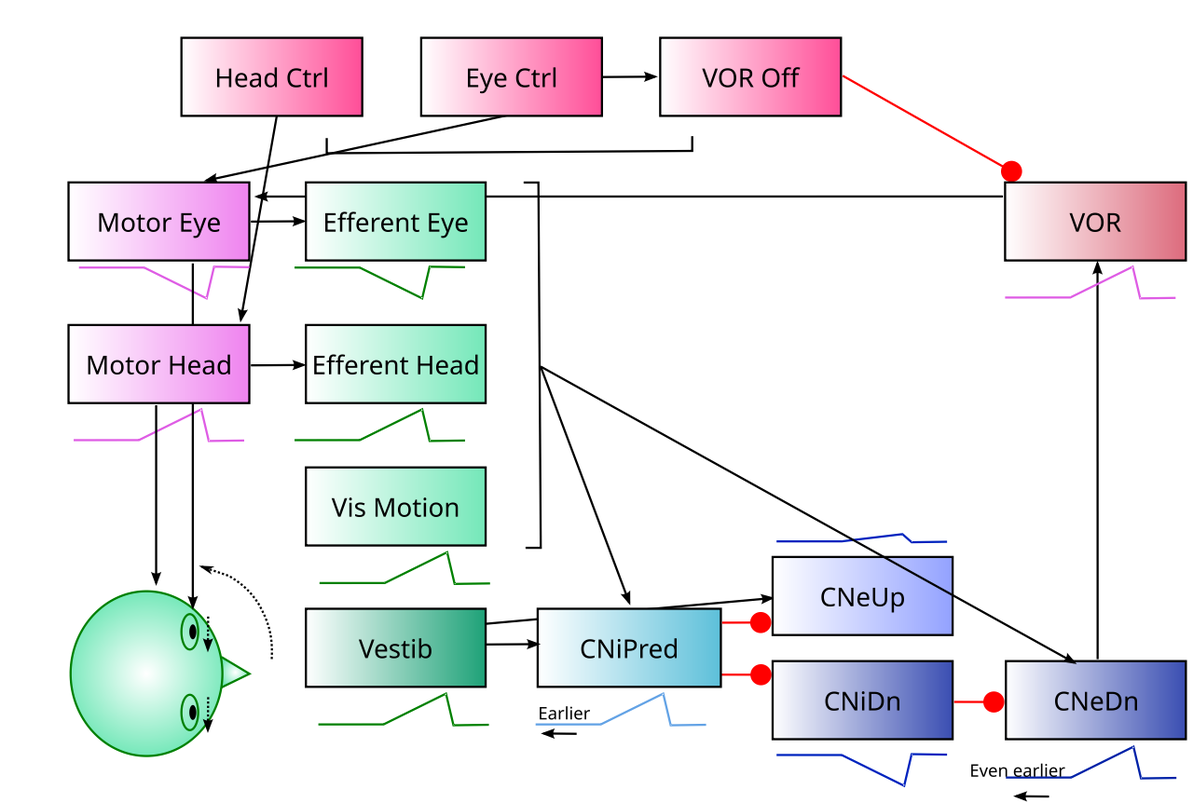
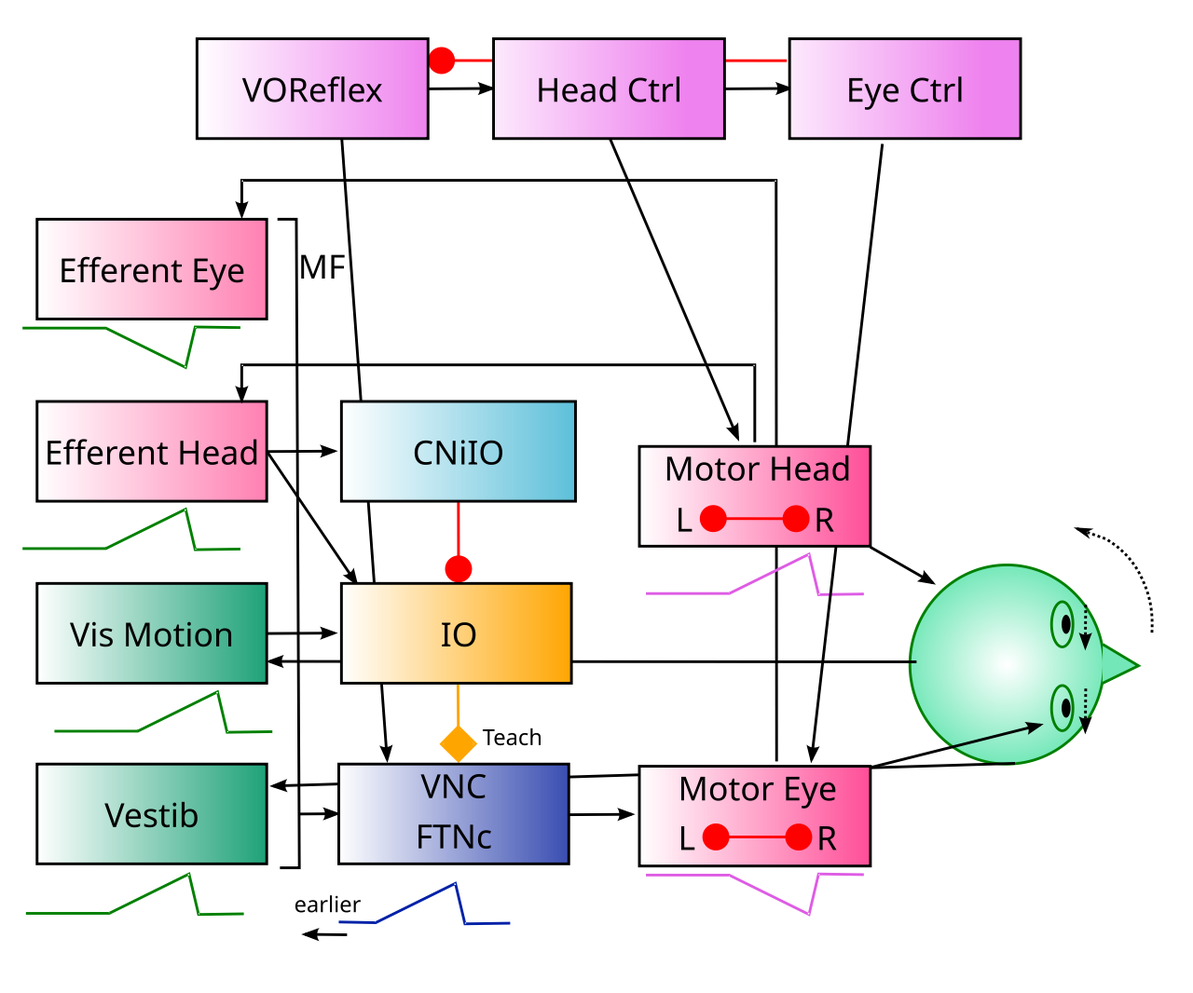
cerebellum updated figs, text, vor figs, vestibular

diff --git a/content/cerebellum.md b/content/cerebellum.md
@@ -61,7 +61,7 @@ There is one interesting and often neglected direct feedback projection within t
 
 The starting point for the model we adopt is that the cerebellum provides a stable, effective basis for motor control by learning to predict the sensory effects of motor actions, and to _subtract_ these predicted sensory signals from the ongoing stream of sensory inputs ([[@Fujita82a]]; [[@DeanPorrillEkerotEtAl10]]; [[@Cullen23]]). This _adaptive filtering_ function can be directly supported by the massive inhibitory projections from the Purkinje cells onto the cerebellar nuclei, which represent the sole output of the cerebellar cortex. The net effect is that any residual sensory signals that have not been canceled therefore represent something beyond the consequences of one's own actions, and are thus the relevant basis for driving further actions.
 
-The same type of predictive learning mechanism that supports the cancellation of sensory signals generated by one set of motor actions is also useful for driving subsequent motor actions based on the anticipated sensory outcomes of those initial actions. A classic example of this is the widely-studied vestibulo-ocular reflex (VOR) where the predicted vestibular signals generated by head movements can then drive corrective eye movements in the opposite direction, to maintain a stable visual stimulus on the retina ([[@ZeeuwHanselBianEtAl98]]; [[@KimpoRinaldiKimEtAl14]]). To effectively stabilize the retinal image, it is essential that the eye movements _anticipate_ the effects of the head movements, not just react to them after the fact. This function is consistent with the widely-discussed _forward model_ theory of cerebellar function ([[@MiallWolpert96]]; [[@Bastian06]]; [[@TanakaIshikawaLeeEtAl20]]). 
+The same type of predictive learning mechanism that supports the cancellation of sensory signals generated by one set of motor actions is also useful for driving subsequent motor actions based on the anticipated sensory outcomes of those initial actions. A classic example of this is the widely-studied [[#vestibulo-ocular reflex]] (VOR) where the predicted vestibular signals generated by head movements can then drive corrective eye movements in the opposite direction, to maintain a stable visual stimulus on the retina ([[@ZeeuwHanselBianEtAl98]]; [[@KimpoRinaldiKimEtAl14]]). To effectively stabilize the retinal image, it is essential that the eye movements _anticipate_ the effects of the head movements, not just react to them after the fact. This function is consistent with the widely-discussed _forward model_ theory of cerebellar function ([[@MiallWolpert96]]; [[@Bastian06]]; [[@TanakaIshikawaLeeEtAl20]]). 
 
 Many theorists have discussed these functions for the cerebellum over the years, but the precise neural mechanisms by which they are accomplished have remained somewhat underspecified in a few important respects. Furthermore, many other functional frameworks have been proposed that are either more generic (e.g., basic error-driven learning as in the Marr-Albus-Ito models, or feedforward motor control based on the widely-studied delayed eyeblink conditioning paradigm; [[@Thompson86]]; [[@RaymondLisbergerMauk96]]; [[@OhyamaMedinaNoresEtAl03]]; [[@NguyenPerson25]]) or more complex (e.g., [[@Kawato99]]; [[@Llinas09]]).
 
@@ -115,7 +115,7 @@ The distinction between a forward model and the adaptive filter is often not cle
 
 The adaptive filter requires increased inhibition in proportion to the predicted sensory signal to drive the cancellation, whereas the forward model signal should go in the opposite direction, to be proportional to the sensory prediction. Both should be driven by a predictive learning mechanism triggered by the efferent copy of a motor action, so that they are "about" the action, and not just always learning to cancel everything.
 
-One clear example of these two functions operating on the same vestibular signal is the adaptive filtering of head motion to subtract from the vestibular signal ([[@Cullen23]]), versus the vestibulo-ocular reflex (VOR) where eye movements are generated to correct for head motion, to keep a visual stimulus stable on the retina ([[@ZeeuwHanselBianEtAl98]]; [[@KimpoRinaldiKimEtAl14]]; see [[VOR simulation]]). The VOR requires ocular motor actions to be generated in anticipation of the effects of head motion actions, which requires the forward model predictions.
+One clear example of these two functions operating on the same vestibular signal is the adaptive filtering of head motion to subtract from the vestibular signal ([[@Cullen23]]), versus the [[#vestibulo-ocular reflex]] (VOR) where eye movements are generated to correct for head motion, to keep a visual stimulus stable on the retina ([[@ZeeuwHanselBianEtAl98]]; [[@KimpoRinaldiKimEtAl14]]; see [[VOR simulation]]). The VOR requires ocular motor actions to be generated in anticipation of the effects of head motion actions, which requires the forward model predictions.
 
 To be able to anticipate sensory signals and respond as quickly as possible, the cerebellar circuits all operate in parallel. Thus, the adaptive filtering and forward model functions, though logically related, operate via parallel loops. It would be too slow for the VOR ocular actions to be generated by sequentially feeding a signal from the adaptive filtering circuit back into another cerebellar circuit for the VOR.
 
@@ -128,10 +128,10 @@ Given the considerable evidence that cerebellar learning is consolidated into th
 ### Nuclear circuitry
 
 {id="figure_nuclear-forward" style="height:25em"}
-![Cerebellar components that implement the _Nuclear_ model of forward model functionality in _downbound_ (**Dn**) microzones. The target output for the **CNeDn** excitatory CN (_cerebellar nucleus_) output is to _anticipate_ the sensory consequences of motor actions for a given _Specific Sense_ input, as early as possible, as indicated by the temporal activity trace schematized under each neuron type. The _Motor Efferent_ copy signal provides the initial predictive trigger, so that the prediction is about a specific action. This trigger arrives before (e.g., 50-100 ms) the sensory effects it causes, so the **IO** (inferior olive) computes an offset comparison of later sensory inputs vs. the anticipatory **CNiIO** inhibitory IO prediction, with the motor trigger resetting IO dynamics. When excitatory sensory input arrives without a prior CNiIO inhibitory prediction, the IO fires a "learn now" teaching spike, to correct the error. IO spikes drive learning in the CNiIO neurons to modify inputs from **MF** (mossy fiber) time-varying state inputs, to improve the prediction. To generate positive, disinhibitory excitation in the CNeDn excitatory output, the tonically-active **CNiDn** local inhibitory interneurons must be inhibited directly by the CNiIO neurons, which predict at the earliest point in time as triggered by motor efferent inputs. CNeDn also contributes to the MF inputs for rapid sharing with other cerebellar pathways. The **PCDn** (_Purkinje cell_) neurons use high-dimensional, rapidly time-varying _granule cell_ (**GC**) representations of MF state to generate more precise, rapidly-adapting predictions to disinhibit the CNeDn anticipatory output, trained by IO climbing fiber complex spikes that result in LTD.](media/fig_cerebellum_as_forward_model.png)
+![Cerebellar components that implement the _Nuclear_ model of forward model functionality in _downbound_ (**Dn**) microzones. The target output for the **CNeDn** excitatory CN (_cerebellar nucleus_) output is to _anticipate_ the sensory consequences of motor actions for a given _Specific Sense_ input, as early as possible, as indicated by the temporal activity trace schematized under each neuron type. The _Motor Efferent_ copy signal provides the initial predictive trigger, so that the prediction is about a specific action. This trigger arrives before (e.g., 50-100 ms) the sensory effects it causes, so the **IO** (inferior olive) computes an offset comparison of later sensory inputs vs. the anticipatory **CNiIO** inhibitory IO prediction, with the motor trigger resetting IO dynamics. When excitatory sensory input arrives without a prior CNiIO inhibitory prediction, the IO fires a "learn now" teaching spike, to correct the error. IO spikes drive learning in the CNeDn neurons to modify inputs from **MF** (mossy fiber) time-varying state inputs, which can then drive earlier anticipatory firing of these CNeDn neurons. CNeDn also contributes back to the MF inputs for rapid sharing with other cerebellar pathways. The **PCDn** (_Purkinje cell_) neurons use high-dimensional, rapidly time-varying _granule cell_ (**GC**) representations of MF state to generate more precise, rapidly-adapting predictions to disinhibit the CNeDn anticipatory output, trained by IO climbing fiber complex spikes that result in LTD.](media/fig_cerebellum_as_forward_model.png)
 
 {id="figure_nuclear-adapt" style="height:25em"}
-![The _Nuclear_ model of adaptive filtering in the _upbound_ (**Up**) microzones. See prior figure for shared elements, with key differences noted here. The target output in the **CNeUp** excitatory CN output neurons is flat tonic activity, with deviations reflecting unexpected signals from the _Specific Sense_ input. Unlike the forward model case, the local inhibitory neurons (**CNiUp**) must learn to inhibit the CNeUP output at the time when subsequent sensory input actually arrives, which is generally delayed by up to 50-100ms from the motor efferent trigger and the anticipatory CNiIO activity. Therefore, the CNiUp neurons learn from the IO error signals to modify their MF inputs to cancel the predicted sensory input that is directly exciting CNeUp. The _mesodiencephalic junction_ (**MDJ**) nuclei receive excitation from CNeUp and project into the IO, so that IO error signals are also sensitive to this final output. The **PCUp** Purkinje cell neurons learn to increase firing (LTP) in response to IO climbing fiber complex spikes, to increase inhibitory cancellation of the CNeUp output.](media/fig_cerebellum_as_adaptive_filter.png)
+![The _Nuclear_ model of adaptive filtering in the _upbound_ (**Up**) microzones. See prior figure for shared elements, with key differences noted here. The target output in the **CNeUp** excitatory CN output neurons is flat tonic activity, with deviations reflecting unexpected signals from the _Specific Sense_ input. Unlike the forward model case, the local inhibitory neurons (**CNiUp**) must learn to inhibit the CNeUP output at the time when subsequent sensory input actually arrives, which is generally delayed by up to 50-100ms from the motor efferent trigger and the anticipatory CNiIO activity. Therefore, the CNiUp neurons learn from the IO error signals to modify their MF inputs to cancel the predicted sensory input that is directly exciting CNeUp. The **PCUp** Purkinje cell neurons learn to increase firing (LTP) in response to IO climbing fiber complex spikes, to increase inhibitory cancellation of the CNeUp output.](media/fig_cerebellum_as_adaptive_filter.png)
 
 [[#figure_nuclear-forward]] shows the key elements of the cerebellar circuitry that can implement the forward model process according to the _Nuclear_ model, while [[#figure_nuclear-adapt]] shows the adaptive filtering case. Even though each major element in this model has been documented and discussed in the literature, the specific details have not otherwise all been combined into one coherent framework. The points of comparison relative to [[#Standard models]] are discussed below, after providing an overview of the Nuclear framework.
 
@@ -213,7 +213,7 @@ Furthermore, the CN projections are generally more focal than those to the cereb
 
 These differences in sensory inputs make sense in terms of the sensory signals that are used to drive motor actions, which require upbound adaptive filtering so that the sensory signal properly compensates for other actions. These sensory inputs are largely visual and auditory localization inputs, which provide a distal guide to where you want to reach or navigate to. Indeed, a range of evidence shows that most motor areas in cortex use visually-grounded spatial reference frames for planning (e.g., [[@BatistaBuneoSnyderEtAl99]]). Because these sensory inputs (eyes and ears) are located on the head, they also require knowing about the orientation of the head, as provided by vestibular inputs.
 
-By contrast, somatosensory inputs provide feedback signals that result from motor actions, but do not represent the target or goal of actions. Therefore, they are important to anticipate for coordinating actions in the downbound forward model areas, but not for adaptive filtering. Th
+By contrast, somatosensory inputs provide feedback signals that result from motor actions, but do not represent the target or goal of actions. Therefore, they are important to anticipate for coordinating actions in the downbound forward model areas, but not for adaptive filtering.
 
 The connectivity with the mesodiencephalic system listed in [[#table_groups]] is based on the projections from the mesodiencephalic junction (MDJ) into the relevant areas of IO, which in turn are known to be associated with corresponding projections from CN output neurons into the same MDJ areas ([[@DeZeeuwSimpsonHoogenraadEtAl98]]; [[@WangNovelloGaoEtAl22]]; [[@DeZeeuwRuigrok94]]; [[@DeZeeuwSimpsonHoogenraadEtAl98]]; [[@RutherfordZuk-HarperGwyn89]]). However, this does _not_ mean that the MDJ areas also send specific sensory inputs into these CN areas. Instead, the CN areas receive from the other areas that the MDJ neurons also receive from, which are generally quite widespread ([[@KhalilMansvelderWitter22]]; [[@OnoderaHicks95]]).
 
@@ -257,13 +257,9 @@ Despite the limited data, there are multiple lines of evidence that IO activity 
 
 #### CNeDn forward model anticipatory firing
 
-To accomplish the _forward model_ functionality, where the sensory prediction itself is used as an excitatory output of the cerebellum, the inhibitory CNiIO signal must be inverted into a disinhibitory excitatory drive on the **CNeDn** CN excitatory output neurons, within the downbound microzones ([[#figure_nuclear-forward]]). This is accomplished by the **CNiDn** inhibitory interneurons, which have been described anatomically and electrophysiologically, but have not previously been associated with a specific function ([[@UusisaariKnopfel11]]; [[@UusisaariKnopfel12]]; [[@DeZeeuwBerrebi95]]; [[@Chan-Palay77]]; [[@KebschullCasoniConsalezEtAl24]]).
+To accomplish the _forward model_ functionality, where the sensory prediction itself is used as an excitatory output of the cerebellum on the **CNeDn** CN excitatory output neurons, within the downbound microzones ([[#figure_nuclear-forward]]). Because the CNeDn neurons do not need to precisely cancel the later-arriving specific sensory input, they can fire as early as possible, to give more time for subsequent motor actions to be shaped in anticipation of the predicted effects of earlier actions. This is the primary hypothesized computational benefit of the downbound forward-model pathway.
 
-Because the CNeDn neurons do not need to precisely cancel the later-arriving specific sensory input, they can fire as early as possible, to give more time for subsequent motor actions to be shaped in anticipation of the predicted effects of earlier actions. This is the primary hypothesized computational benefit of the downbound forward-model pathway.
-
-From a learning perspective, the CNiIO neurons are already learning to anticipate the sensory input signal, and they are under direct feedback control from the IO teaching signal that they directly influence. Therefore, it makes computational sense to restrict learning to these neurons, and just have simple fixed inhibitory projections from CNiIO to CNiDn to CNeDn, which invert this signal.
-
-Nevertheless, it is possible that IO inputs and / or the consequences of the PC complex spike inhibition onto the CNeDn neurons could drive plasticity directly in these neurons as well, consistent with extant theories ([[@PughRaman08]]; [[@YangLisberger14]]; [[@HerzfeldHallTringidesEtAl20]]).
+The IO climbing fibers project to the CN, and can drive learning from the MF inputs to the CNeDn neurons, producing the requisite excitatory activity, which can anticipate due to the synaptic integration process as discussed earlier ([[@RaymondLisberger98]]; [[@WangDenkHausser00]]). This is consistent with various theories ([[@PughRaman08]]; [[@YangLisberger14]]; [[@HerzfeldHallTringidesEtAl20]]).
 
 Interestingly, there are also some direct projections from CNiIO neurons into the pontine nuclei and midbrain / brainstem motor areas ([[@JuddLewisPerson21]]), which could thereby send inhibitory anticipatory signals, to complement the excitatory CNeDn ones.
 
@@ -271,7 +267,12 @@ Interestingly, there are also some direct projections from CNiIO neurons into th
 
 Although the initial evolutionary function of the cerebellum is thought to be adaptive filtering, it requires some additional mechanisms to deal with the temporal offset between the motor action and the subsequent sensory inputs (which was likely much shorter in simpler brains and smaller animals). As shown in [[#figure_nuclear-adapt]], the **CNiUp** inhibitory interneurons must learn a later sensory prediction that is precisely aligned with the incoming sensory signal, so that the **CNeUp** excitatory output neurons will only communicate unexpected sensory signals.
 
-Thus, the CNiUp local inhibitory neurons in the Nuclear model receive mossy fiber inputs and adapt these synapses using the IO teaching signal, to precisely cancel the specific sensory input via their direct inhibitory projections to the CNeUp output neurons. Interestingly, the excitatory projections from upbound CNe neurons to the MDJ (mesodiencephalic junction) neurons, which in turn project to the IO neurons that project into corresponding CN microzones ([[@DeZeeuwSimpsonHoogenraadEtAl98]]; [[@WangNovelloGaoEtAl22]]), provide a mechanism for direct error feedback learning based on the final CNeUp signal. Any residual perturbation in this signal can drive IO spiking, which should then drive further learning in the CNiUp neurons to better cancel the excitatory sensory inputs. This provides an important function for these otherwise rather mysterious MDJ areas.
+Thus, the CNiUp local inhibitory neurons in the Nuclear model receive mossy fiber inputs and adapt these synapses using the IO teaching signal, to precisely cancel the specific sensory input via their direct inhibitory projections to the CNeUp output neurons.
+
+{id="figure_adapt-mdj" style="height:25em"}
+![The _mesodiencephalic junction_ (**MDJ**) nuclei receive excitation from CNeUp and project into the IO, so that IO error signals are also sensitive to this final output.Compare this figure with the adaptive filtering figure shown earlier.](media/fig_cerebellum_as_adaptive_filter_mdj.png)
+
+Interestingly, the excitatory projections from upbound CNe neurons to the MDJ (mesodiencephalic junction) neurons, which in turn project to the IO neurons that project into corresponding CN microzones ([[#figure_adapt-mdj]]; [[@DeZeeuwSimpsonHoogenraadEtAl98]]; [[@WangNovelloGaoEtAl22]]), provide a mechanism for direct error feedback learning based on the final CNeUp signal. Any residual perturbation in this signal can drive IO spiking, which should then drive further learning in the CNiUp neurons to better cancel the excitatory sensory inputs. This provides an important function for these otherwise rather mysterious MDJ areas.
 
 #### Purkinje cells
 
@@ -329,7 +330,7 @@ There is a general consensus in the field that initial faster learning in the PC
 
 Perhaps the strongest-seeming data comes from [[@^GarciaSteeleMauk99]], who lesioned the cerebral cortex post-learning in an [[eyeblink simulation|conditioning]] paradigm, and found that this lesion prevented subsequent acquisition to a new CS. However, this is could actually have been due to a blocking effect from the prior CS-US conditioning, as was found by [[@^KimKrupaThompson98]].
 
-Another study by [[@^ZeeuwHanselBianEtAl98]] used a genetic knockout to disable a critical protein kinase involved in [[synaptic plasticity]], selectively in the PC neurons. Although they found that this blocked adaptation of the vestibulo-ocular reflex (VOR) in both the PCs and the CN, they only used a short amount of training (1 hr) which was shown in another study to only affect learning in the cerebral cortex ([[@KassardjianTanChungEtAl05]]).
+Another study by [[@^ZeeuwHanselBianEtAl98]] used a genetic knockout to disable a critical protein kinase involved in [[synaptic plasticity]], selectively in the PC neurons. Although they found that this blocked adaptation of the [[#vestibulo-ocular reflex]] (VOR) in both the PCs and the CN, they only used a short amount of training (1 hr) which was shown in another study to only affect learning in the cerebral cortex ([[@KassardjianTanChungEtAl05]]).
 
 Consistent with the fast vs. slow dissociation, [[@^KassardjianTanChungEtAl05]] only found cortically-independent learning in the CN after 3 days of training. Furthermore, [[@^ZeeuwHanselBianEtAl98]] noted that the standard VOR, and considerable motor behavior, was intact in their knockout mice, providing strong evidence that plasticity in the PC is _not_ important for the slow learning over developmental time in the CN.
 
@@ -394,7 +395,7 @@ $$
 
 where $\lambda_e$ is the learning rate for error trials, and $\lambda_b$ is the decay learning rate. Note that the decay learning operates on whatever inputs are active at the time of the baseline 1 hz spike that triggers decay learning, instead of generically decaying everything. For the PCDn learning, the signs are reversed.
 
-In support of the asymmetrical directionality of this learning rule, there are well-documented cases across multiple paradigms that show strong such asymmetries. For example, in a very thorough study of the VOR (vestibulo-ocular reflex) paradigm, only increases in VOR gain exhibited rapid trial-by-trial adjustments, that were consistent with LTD of the PC climbing fiber synapses ([[@KimpoRinaldiKimEtAl14]]). Nevertheless long-term changes in behavior and PC firing were appropriately bidirectional, suggesting that the asymmetry was restricted to rapid, transient changes. There may be general functional benefits to this asymmetry that can be investigated with computational models.
+In support of the asymmetrical directionality of this learning rule, there are well-documented cases across multiple paradigms that show strong such asymmetries. For example, in a very thorough study of the VOR ([[#vestibulo-ocular reflex]]) paradigm, only increases in VOR gain exhibited rapid trial-by-trial adjustments, that were consistent with LTD of the PC climbing fiber synapses ([[@KimpoRinaldiKimEtAl14]]). Nevertheless long-term changes in behavior and PC firing were appropriately bidirectional, suggesting that the asymmetry was restricted to rapid, transient changes. There may be general functional benefits to this asymmetry that can be investigated with computational models.
 
 A directional saccade task also showed the same kind of asymmetry in rapid learning, which was also dissociated from the bidirectional plasticity in longer-term learning ([[@YangLisberger14a]]). The widely-studied eyeblink conditioning task has shown more ambiguous results on the directionality of learning ([[@McCormickThompson84a]]; [[@BerthierMoore86]]; [[@JirenhedBengtssonHesslow07]]; [[@GreenSteinmetz05]]), perhaps consistent with a mix of both forward model and adaptive filter modes of learning.
 
@@ -452,3 +453,40 @@ Furthermore, the [[Rubicon]] goal-driven control framework provides a critical o
 <!--- TODO: * show data from [[@TanakaIshikawaKakei19]], [[@IshikawaTomatsuIzawaEtAl16]], 2014, [[@ZobeiriCullen24]] on actual firing data in CN, PC neurons etc. DC neurons do not go silent!  every neuron learns what the firing of every other neuron means, so the cancelation is all relative. Weird result from [[@ZobeiriCullen24]] along these lines.
 -->
 
+## Vestibulo-ocular reflex
+
+{id="figure_vor-anatomy" style="height:30em"}
+![Anatomy of the VOR reflex, which is driven by vestibular signals from the semicircular canals, which project into the vestibular nucleus, and from there into optical motor areas. All primary inputs are _ipsilateral_ (e.g., the right ear projects to the right hemisphere), and the VOR involves the subset of VNC (vestibular nuclear complex) neurons that project _contralaterally_ to drive the _nucleus abducens_ optical motor interneurons that cause eye movents in the compensatory, opposite direction.](media/fig_cerebellum_vor_anatomy.png)
+
+{id="figure_vor" style="height:30em"}
+![Central elements of the VOR network. The violet colored boxes at the top reflect brainstem control areas where descending cortical and basal ganglia motor inputs drive coordinated motor behavior. The `Head Ctrl` area drives neck rotation, but also by default provides inputs into the `VOReflex` motor reflex area that then drives compensatory eye movements, by default, in proportion to the neck rotation signals. The `Eye Ctrl` area supports direct saccadic control over eye position, which automatically suppresses the VOR, via the `VOR Off` area which inhibits the VOReflex. The cerebellum learns a `VOR Mod` modulatory signal via the `CNeDn` downgoing forward model pathway, which controls the gain of the `VOReflex`](media/fig_cerebellum_vor.png)
+
+The vestibulo-ocular reflex (VOR) is a thoroughly studied aspect of cerebellar function (see [[@Cullen23]; [[@KheradmandZee11]] for reviews, and [[@ZeeuwHanselBianEtAl98]]; [[@KimpoRinaldiKimEtAl14]] for important results). The VOR is directly mediated by brainstem circuits outside of the cerebellum, but the ability to tune the VOR in response to perturbations in the visual input (e.g., by wearing glasses) is critically dependent on the cerebellum. Thus, consistent with the known properties of cerebellar output pathway neurons, they serve to _modulate_ or _tune_ the activity of other sensory-motor circuits.
+
+This contribution of the cerebellum is summarized by its contributions to the _VOR gain_ factor: the ratio of head motion to compensatory eye motion in the opposite direction. For the normal, baseline case, this gain factor is 1. But experimental manipulations including changing the magnification in the eyes or stimulating the vestibular nerves causes the gain to change, in a cerebellum-dependent manner.
+
+[[@InagakiHirata17]] provide a detailed computational model.
+
+Some of the relevant phenomena that a biologically-based model should account for includes:
+
+* The asymmetry in VOR gain increases vs. decreases, in terms of rate of learning and duration of retention ([[@BoydenKatohRaymond04]]; [[@KukiHirataBlazquezEtAl04]]; [[@KimpoRinaldiKimEtAl14]]). We can understand these differences in terms of the rapid contribution of cerebellar LTD learning for gain increases, which decays relatively rapidly, versus slower, longer-lasting changes in the cerebellar nuclei, and even a consolidation process out in the brainstem circuits directly, eventually ([[@LisbergerPavelkoBroussard94]])
+
+* [[@BlazquezHirataHeineyEtAl03]] document a number of different changes in the responses of Purkinje cells to various input parameters, which together can account for the VOR gain changes. [[@HirataHighstein01]].
+
+### Existing computational models
+
+#### Lisberger 1994
+
+{id="figure_vor_ftn" style="height:40em"}
+![Results from Lisberger et al (1994) on the modulation of FTN (floccular target neurons in the vestibular nucleus) ](media/fig_cerebellum_vor_lisberger_etal_94_ftn_fig12.png)
+
+One of the earliest models, features the **HGVP** (horizontal gaze-velocity Purkinje) cells, which project inhibition onto the **FTN** (flocculus target neurons, in the vestibular nucleus), that then project to the ocular motor system, and are the functional equivalent of cerebellar nucleus neurons for the vestibular system. These neurons have a high tonic level of activity, are excitatory ([[@MatsunoKudohWatakabeEtAl16]]) and have two different subtypes respond in opposite directions: E_i = ipsilateral, E_c = contralateral eye movement-related activity ([[@LisbergerPavelkoBroussard94]]).
+
+Under normal conditions, the ipsilateral neurons increase firing in response to head movements in the ipsilateral direction, while the contralateral ones exhibit the opposite pattern, providing a classic opponent-organized system. With VOR training, increases in VOR gain were associated mostly with large decreases in velocity sensitivity for the E_c opponent, and smaller increases in sensitivity for the E_i ipsilateral direction (i.e., reducing the inhibition a lot and increasing the excitation a bit). By contrast, reductions in VOR gain were associated with increases in E_c opponent activity _and_ E_i activity.
+
+* E_i -> Ipsi = head rotating ipsi, *eye* rotating contra!!
+* E_c -> contra = head rotating contra, *eye* rotating ipsi
+
+GAIN = balance between these two! not either one alone. More gain -> E_i+, E_c-; Less gain -> E_i-, E_c+
+
+Overall most of the HGVP Purkinje cells respond too late to drive the earliest modified component of the VOR, which must be driven by changes in the brain stem vestibular inputs to FTNs: the HGVP may contribute to plasticity but the FTN neurons are clearly the locus of most of the critical learning.

diff --git a/content/vestibular.md b/content/vestibular.md
@@ -22,4 +22,18 @@ Furthermore, our ability to navigate through large spaces depends critically on 
 
 <!--- TODO: more about these! -->
 
+## Vestibular transduction
+
+{id="figure_transduction" style="height:25em"}
+![The vestibular organ that transduces rotational and linear motion signals into neural firing signals. The semicircular canals are sensitive to rotational motion on 3 different axes, while the otolith organs are sensitive to linear motion. Figure from BruceBlaus on Wikimedia Commons (CC-SA-4.0).](media/fig_vestibular_transduction.png)
+
+The transduction of head movements into neural firing signals occurs via the vestibular organ ([[#figure_transduction]]), where the **semicircular canals** are sensitive to rotational motion in 3 different axes, while the **otolith** organs are sensitive to linear accelerations (_utricle_ for horizontal and _saccule_ for vertical).
+
+## Vestibular nuclei (VNC)
+
+The vestibular nuclei in the VNC can be subdivided into the descending, lateral, medial and superior nuclei (DVN, LVN, MVN, SVN), along with the parasolitary nucleus (Psol), which differ more in their projection targets than in their afferent inputs from primary vestibular signals ([[@Barmack23]]). These primary afferent inputs are exclusively _ipsilateral_ (e.g., left ear to left hemisphere), but the output pathways from the nucleus neurons can project ipsilaterally or contralaterally.
+
+There is extensive cross-hemisphere connectivity between the different nuclei, which in general establishes an [[opponent process]] relationship between these neurons: any excitation of one side will lead to a proportional inhibition on the other side. This is specific to neurons that process horizontally-oriented signals (semicircular canals and utricle otoliths).
+
+In addition to primary vestibular inputs, these VNC neurons receive visual motion signals from the accessory optic system (AOS) and neck proprioceptive signals. 
 
